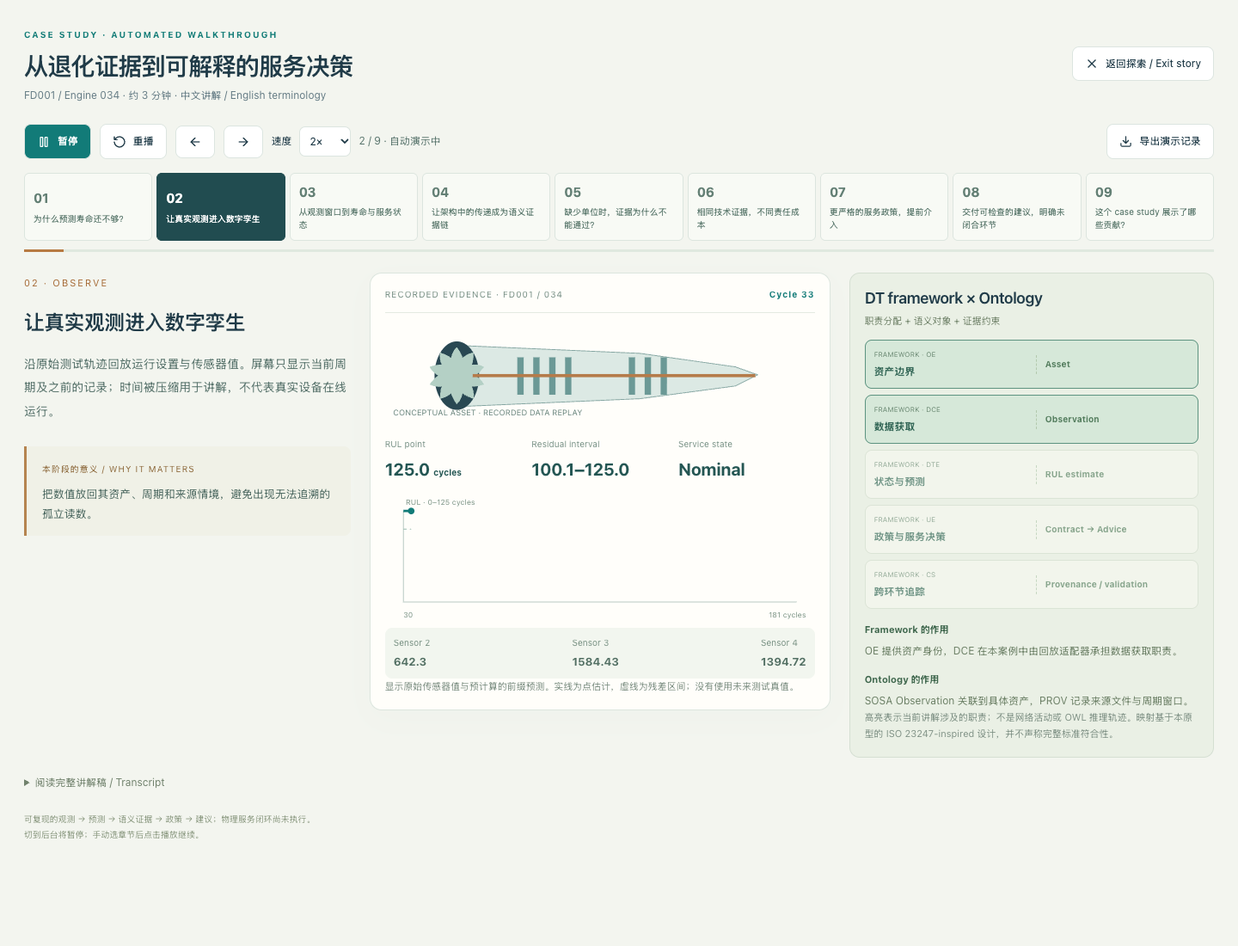
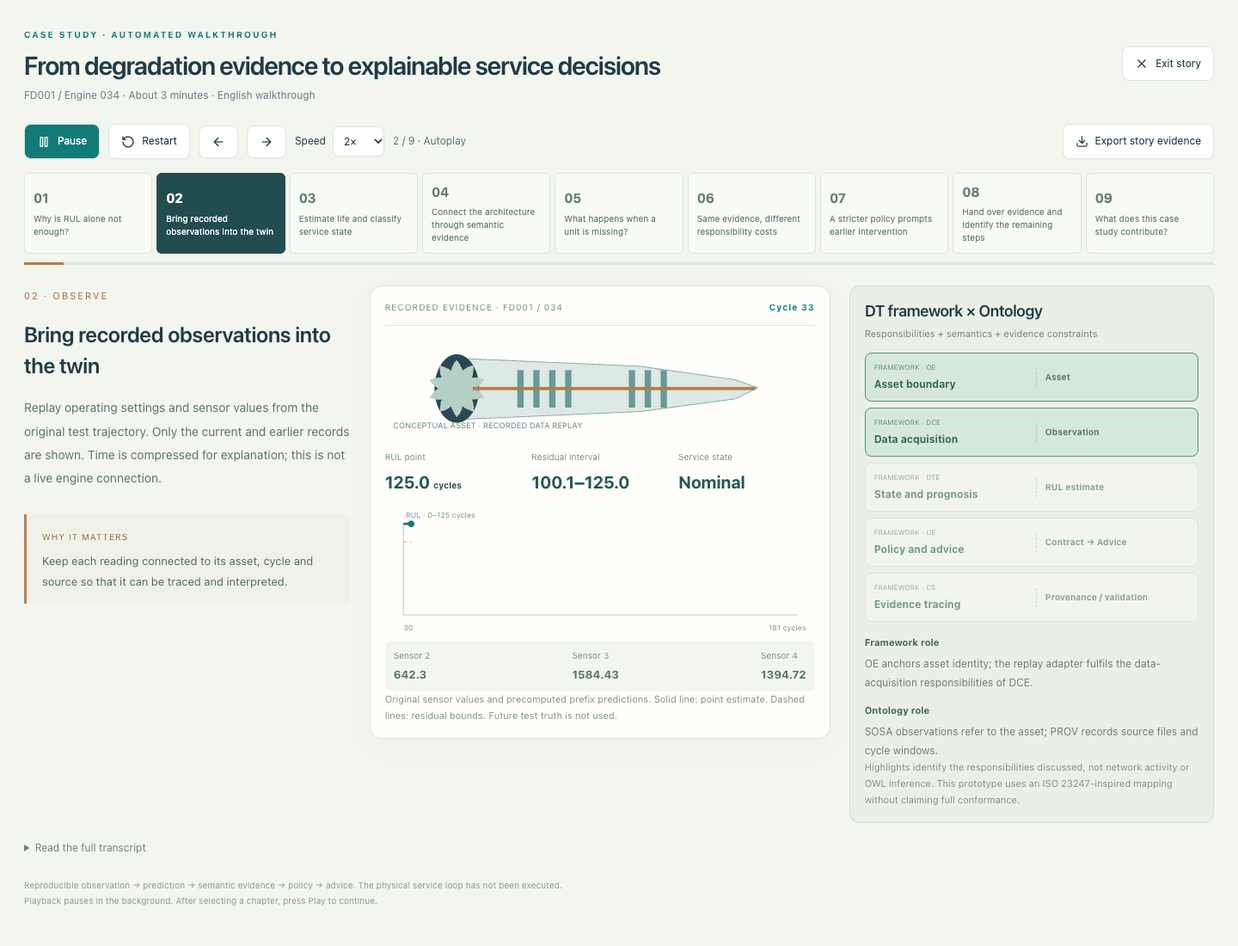
feat(cmapss): deliver fully English case study walkthrough

diff --git a/src/cmapss/CaseStudyStory.tsx b/src/cmapss/CaseStudyStory.tsx
@@ -12,7 +12,7 @@ const base=(import.meta as unknown as {env:{BASE_URL:string}}).env.BASE_URL;
 const points=data.engines.find(e=>e.id===34)!.points;
 const provenance={model:data.model,baselineSHA256:data.baselineSHA256,exporterSHA256:data.exporterSHA256,files:data.files,sensorNumbers:data.sensorNumbers,ontologySHA256:schema.sha256};
 type Check=Awaited<ReturnType<typeof executeSemantic>>&{stage:string;cycle:number;shapesSHA256:string;datasetSHA256:string};
-const modules=[['OE','Asset','资产边界'],['DCE','Observation','数据获取'],['DTE','RUL estimate','状态与预测'],['UE','Contract → Advice','政策与服务决策'],['CS','Provenance / validation','跨环节追踪']];
+const modules=[['OE','Asset','Asset boundary'],['DCE','Observation','Data acquisition'],['DTE','RUL estimate','State and prognosis'],['UE','Contract → Advice','Policy and advice'],['CS','Provenance / validation','Evidence tracing']];
 const f=(n:number)=>n.toFixed(1);
 export default function CaseStudyStory({onClose}:{onClose:()=>void}) {
  const [player,dispatch]=useReducer(storyReducer,initialPlayer);
@@ -49,12 +49,12 @@ export default function CaseStudyStory({onClose}:{onClose:()=>void}) {
   const controller=new AbortController();
   (async()=>{
    try {
-    const load=async(path:string)=>{const r=await fetch(`${base}cmapss/${path}`,{signal:controller.signal});if(!r.ok)throw new Error(`无法加载 ${path} (${r.status})`);return r.text();};
+    const load=async(path:string)=>{const r=await fetch(`${base}cmapss/${path}`,{signal:controller.signal});if(!r.ok)throw new Error(`Unable to load ${path} (${r.status})`);return r.text();};
     const [{executeSemantic},shapes,query]=await Promise.all([import('./semantic'),load('cmapss-shapes.ttl'),load(`queries/${requirement.query}.rq`)]);
     const point=points.find(p=>p.cycle===requirement.cycle)!;
     const input={dataset:'FD001' as const,engine:34,point,scenario:requirement.contract?contracts[1].policy:defaults,contract:requirement.contract?contracts[1]:undefined,provenance};
     const value=await executeSemantic(input,shapes,query,requirement.defect);
-    if(value.conforms!==requirement.expected||(requirement.expected&&value.rows.length===0)||(!requirement.expected&&!value.violations.length))throw new Error('实际验证结果与案例预期不一致，请检查证据。');
+    if(value.conforms!==requirement.expected||(requirement.expected&&value.rows.length===0)||(!requirement.expected&&!value.violations.length))throw new Error('The actual validation result differs from the expected case outcome. Inspect the evidence.');
     const hash=async(text:string)=>Array.from(new Uint8Array(await crypto.subtle.digest('SHA-256',new TextEncoder().encode(text)))).map(v=>v.toString(16).padStart(2,'0')).join('');
     const [shapesSHA256,datasetSHA256]=await Promise.all([hash(shapes),hash(value.datasetTTL)]);
     if(!cancelled)setRecords(old=>({...old,[step.id]:{...value,stage:step.id,cycle:requirement.cycle,shapesSHA256,datasetSHA256}}));
@@ -72,47 +72,47 @@ export default function CaseStudyStory({onClose}:{onClose:()=>void}) {
  const history=points.filter(v=>v.cycle<=p.cycle);
  const x=(cycle:number)=>22+(cycle-30)/151*476;
  const y=(rul:number)=>132-rul/125*110;
- return <div className={`cm-app cm-story ${player.playing?'is-playing':''}`}>
+ return <div lang="en" className={`cm-app cm-story ${player.playing?'is-playing':''}`}>
   <main>
-   <header className="cs-top"><div><span className="cm-eyebrow">CASE STUDY · AUTOMATED WALKTHROUGH</span><h1 ref={heading} tabIndex={-1}>从退化证据到可解释的服务决策</h1><p>FD001 / Engine 034 · 约 3 分钟 · 中文讲解 / English terminology</p></div><button className="cm-button" onClick={onClose}><X size={16}/>返回探索 / Exit story</button></header>
+   <header className="cs-top"><div><span className="cm-eyebrow">CASE STUDY · AUTOMATED WALKTHROUGH</span><h1 ref={heading} tabIndex={-1}>From degradation evidence to explainable service decisions</h1><p>FD001 / Engine 034 · About 3 minutes · English walkthrough</p></div><button className="cm-button" onClick={onClose}><X size={16}/>Exit story</button></header>
    <section className="cs-controls" aria-label="Story playback controls">
-    <button className="cm-button cs-play" onClick={toggle} aria-label={player.playing?'Pause story':'Play story'}>{player.playing?<Pause size={16}/>:<Play size={16}/>} {player.finished?'重新播放':player.playing?'暂停':'播放'}</button>
-    <button className="cm-button" onClick={restart} aria-label="Restart story"><RotateCcw size={16}/>重播</button>
+    <button className="cm-button cs-play" onClick={toggle} aria-label={player.playing?'Pause story':'Play story'}>{player.playing?<Pause size={16}/>:<Play size={16}/>} {player.finished?'Play again':player.playing?'Pause':'Play'}</button>
+    <button className="cm-button" onClick={restart} aria-label="Restart story"><RotateCcw size={16}/>Restart</button>
     <button className="cm-button" onClick={()=>go(player.index-1)} disabled={player.index===0} aria-label="Previous scene"><ArrowLeft size={16}/></button>
     <button className="cm-button" onClick={()=>go(player.index+1)} disabled={player.index===storySteps.length-1} aria-label="Next scene"><ArrowRight size={16}/></button>
-    <label>速度<select aria-label="Story speed" value={speed} onChange={e=>setSpeed(Number(e.target.value))}><option value={.5}>0.5×</option><option value={1}>1×</option><option value={2}>2×</option></select></label>
-    <span className="cs-position" data-testid="story-position">{player.index+1} / {storySteps.length} · {player.finished?'演示结束':!ready?'等待真实语义执行':player.playing?'自动演示中':'已暂停'}</span>
-    <button className="cm-button" onClick={exportRun}><Download size={15}/>导出演示记录</button>
+    <label>Speed<select aria-label="Story speed" value={speed} onChange={e=>setSpeed(Number(e.target.value))}><option value={.5}>0.5×</option><option value={1}>1×</option><option value={2}>2×</option></select></label>
+    <span className="cs-position" data-testid="story-position">{player.index+1} / {storySteps.length} · {player.finished?'Story complete':!ready?'Waiting for semantic execution':player.playing?'Autoplay':'Paused'}</span>
+    <button className="cm-button" onClick={exportRun}><Download size={15}/>Export story evidence</button>
    </section>
    <nav className="cs-chapters" aria-label="Story chapters">{storySteps.map((s,i)=><button key={s.id} onClick={()=>go(i)} aria-current={i===player.index?'step':undefined} aria-label={`Scene ${i+1}: ${s.title}`}><b>{String(i+1).padStart(2,'0')}</b><span>{s.title}</span></button>)}</nav>
    <div className="cs-progress" role="progressbar" aria-label="Current scene progress" aria-valuemin={0} aria-valuemax={100} aria-valuenow={Math.floor(player.elapsed/step.duration*100)}><i style={{width:`${player.elapsed/step.duration*100}%`}}/></div>
    <section className="cs-stage" aria-label="Current story scene" data-stage={step.id}>
-    <div className="cs-narration" key={step.id}><small>{step.tag}</small><h2 data-testid="story-title">{step.title}</h2><p>{step.text}</p><div className="cs-meaning"><small>本阶段的意义 / WHY IT MATTERS</small><p>{step.meaning}</p></div></div>
+    <div className="cs-narration" key={step.id}><small>{step.tag}</small><h2 data-testid="story-title">{step.title}</h2><p>{step.text}</p><div className="cs-meaning"><small>WHY IT MATTERS</small><p>{step.meaning}</p></div></div>
     <div className="cs-evidence">
      <div className="cs-evidence-head"><span>RECORDED EVIDENCE · FD001 / 034</span><b>Cycle <span data-testid="story-cycle">{p.cycle}</span></b></div>
      {['purpose','observe','predict'].includes(step.id)&&<>
-      <svg className="cs-engine" viewBox="0 0 540 110" role="img" aria-label="概念发动机与数据流，不表示实际损伤或物理传感器位置"><path d="M90 20L320 30L440 47L468 57L440 71L320 87L90 97Z" fill="#dce9e4" stroke="#85a6a2"/><ellipse cx="90" cy="58" rx="28" ry="43" fill="#294853"/><g className="cs-fan">{Array.from({length:10},(_,i)=><path key={i} d="M90 58Q75 38 90 22Q107 45 90 58" fill="#b4d0c5" transform={`rotate(${i*36} 90 58)`}/>)}</g>{[170,190,210,230,310,330,350].map(x=><path key={x} d={`M${x} 35v47`} stroke="#6b9996" strokeWidth="8"/>)}<path d="M110 58H465" stroke="#b57b4a" strokeWidth="4"/><text x="10" y="108" fontSize="10" fill="#69857e">CONCEPTUAL ASSET · RECORDED DATA REPLAY</text></svg>
+      <svg className="cs-engine" viewBox="0 0 540 110" role="img" aria-label="Conceptual engine and data flow; no measured damage or physical sensor locations are depicted"><path d="M90 20L320 30L440 47L468 57L440 71L320 87L90 97Z" fill="#dce9e4" stroke="#85a6a2"/><ellipse cx="90" cy="58" rx="28" ry="43" fill="#294853"/><g className="cs-fan">{Array.from({length:10},(_,i)=><path key={i} d="M90 58Q75 38 90 22Q107 45 90 58" fill="#b4d0c5" transform={`rotate(${i*36} 90 58)`}/>)}</g>{[170,190,210,230,310,330,350].map(x=><path key={x} d={`M${x} 35v47`} stroke="#6b9996" strokeWidth="8"/>)}<path d="M110 58H465" stroke="#b57b4a" strokeWidth="4"/><text x="10" y="108" fontSize="10" fill="#69857e">CONCEPTUAL ASSET · RECORDED DATA REPLAY</text></svg>
       <div className="cs-metrics"><div><small>RUL point</small><b>{f(p.point)} <em>cycles</em></b></div><div><small>Residual interval</small><b>{f(p.low)}–{f(p.high)}</b></div><div><small>Service state</small><b>{state(p.low)}</b></div></div>
-      <svg className="cs-trace" viewBox="0 0 520 158" role="img" aria-label={`已观测前缀的 RUL 预测，当前周期 ${p.cycle}`}><path d="M22 22V132H498" fill="none" stroke="#b8cac3"/><polyline points={history.map(v=>`${x(v.cycle)},${y(v.low)}`).join(' ')} fill="none" stroke="#9abbaf" strokeDasharray="4 4"/><polyline points={history.map(v=>`${x(v.cycle)},${y(v.high)}`).join(' ')} fill="none" stroke="#9abbaf" strokeDasharray="4 4"/><polyline points={history.map(v=>`${x(v.cycle)},${y(v.point)}`).join(' ')} fill="none" stroke="#127b78" strokeWidth="3"/><circle cx={x(p.cycle)} cy={y(p.point)} r="4" fill="#127b78"/><text x="22" y="151">30</text><text x="464" y="151">181 cycles</text><text x="25" y="15">RUL · 0–125 cycles</text></svg>
-      <div className="cs-sensors">{data.sensorNumbers.slice(0,3).map((n,i)=><span key={n}>Sensor {n}<b>{p.sensors[i]}</b></span>)}</div><p className="cs-caption">显示原始传感器值与预计算的前缀预测。实线为点估计，虚线为残差区间；没有使用未来测试真值。</p>
+      <svg className="cs-trace" viewBox="0 0 520 158" role="img" aria-label={`RUL predictions from the observed prefix; current cycle ${p.cycle}`}><path d="M22 22V132H498" fill="none" stroke="#b8cac3"/><polyline points={history.map(v=>`${x(v.cycle)},${y(v.low)}`).join(' ')} fill="none" stroke="#9abbaf" strokeDasharray="4 4"/><polyline points={history.map(v=>`${x(v.cycle)},${y(v.high)}`).join(' ')} fill="none" stroke="#9abbaf" strokeDasharray="4 4"/><polyline points={history.map(v=>`${x(v.cycle)},${y(v.point)}`).join(' ')} fill="none" stroke="#127b78" strokeWidth="3"/><circle cx={x(p.cycle)} cy={y(p.point)} r="4" fill="#127b78"/><text x="22" y="151">30</text><text x="464" y="151">181 cycles</text><text x="25" y="15">RUL · 0–125 cycles</text></svg>
+      <div className="cs-sensors">{data.sensorNumbers.slice(0,3).map((n,i)=><span key={n}>Sensor {n}<b>{p.sensors[i]}</b></span>)}</div><p className="cs-caption">Original sensor values and precomputed prefix predictions. Solid line: point estimate. Dashed lines: residual bounds. Future test truth is not used.</p>
      </>}
      {['semantics','quality','handoff'].includes(step.id)&&<>
       <div className="cs-chain"><div><small>sdt:Asset</small><b>Engine 034</b></div><span>← sosa:hasFeatureOfInterest</span><div><small>sosa:Observation</small><b>Cycle {p.cycle} / sensor values</b></div><span>← cm:observation</span><div><small>cm:ObservationWindow</small><b>Cycles {Math.max(1,p.cycle-29)}–{p.cycle}</b></div><span>← prov:wasDerivedFrom</span><div><small>cm:CycleRULEstimate</small><b>{f(p.point)} cycles</b></div><span>← cm:basedOnEstimate</span><div><small>Recommendation · proposed</small><b>{decision.chosen.name}</b></div></div><p className="cs-caption cs-links">Estimate → cm:generatedWith → {data.model}<br/>Window → prov:wasDerivedFrom → test_FD001.txt<br/>Recommendation → prov:wasDerivedFrom → Contract / Policy</p>
-      {step.id==='quality'&&<p className="cs-warning">TEST COPY：移除 cm:unit → cm:Cycle；原始数据不变。</p>}
-      {step.id==='handoff'&&<div className="cs-boundary"><b>下一步尚未执行</b><p>人工授权 → 维护执行 → 新观测 → 结果评估</p><span>原数据没有维护后的轨迹，不能把这条链动画成已完成的物理闭环。</span></div>}
+      {step.id==='quality'&&<p className="cs-warning">TEST COPY: remove cm:unit → cm:Cycle. Original data is unchanged.</p>}
+      {step.id==='handoff'&&<div className="cs-boundary"><b>Steps not yet executed</b><p>Human authorization → Maintenance → New observations → Outcome evaluation</p><span>The source data has no post-maintenance trajectories. This physical feedback loop has not been completed.</span></div>}
      </>}
-     {['cost','margin'].includes(step.id)&&<><div className="cs-fixed">同一 RUL：{f(p.point)} · 下界 {f(p.low)} cycles</div><div className="cs-contracts">{pair.map(({terms,decision,budget})=><article key={terms.id}><small>{terms.name}</small><dl><dt>后果成本</dt><dd>{terms.policy.consequence}×</dd><dt>介入门槛</dt><dd>{terms.policy.gate} cycles</dd></dl><b data-testid={`story-${terms.id}`}>{decision.chosen.name}</b><p>成本 {decision.chosen.total.toFixed(3)} · {decision.gated?'门槛触发':'成本排序'}</p>{step.id==='margin'&&<p>假设目标 {terms.target*100}%<br/>计划损失预算余量：{budget.plannedMarginSlots.toFixed(0)} slots</p>}</article>)}</div><p className="cs-caption">合同参数为研究假设。目标值与介入门槛独立设定；KPI 预算不参与优化。可用性保障的 −3 slots 表示假设停机超出预算，维护建议不证明满足 99% 目标。</p></>}
+     {['cost','margin'].includes(step.id)&&<><div className="cs-fixed">Same RUL: {f(p.point)} · lower bound {f(p.low)} cycles</div><div className="cs-contracts">{pair.map(({terms,decision,budget})=><article key={terms.id}><small>{terms.name}</small><dl><dt>Consequence cost</dt><dd>{terms.policy.consequence}×</dd><dt>Intervention margin</dt><dd>{terms.policy.gate} cycles</dd></dl><b data-testid={`story-${terms.id}`}>{decision.chosen.name}</b><p>Normalized cost {decision.chosen.total.toFixed(3)} · {decision.gated?'margin active':'cost ranking'}</p>{step.id==='margin'&&<p>Assumed target {terms.target*100}%<br/>Planned-loss budget margin: {budget.plannedMarginSlots.toFixed(0)} slots</p>}</article>)}</div><p className="cs-caption">Contract terms are research assumptions. Targets and intervention margins are independent; the KPI budget does not enter the optimizer. A margin of −3 slots under availability assurance means the assumed loss exceeds the budget. Maintenance advice does not establish compliance with the 99% target.</p></>}
      {step.id==='contributions'&&<><div className="cs-contributions">{[
-      ['C1 · 服务化架构映射','将观测、预测、政策与建议分配到可解释的职责环节。','证据：运行中的 DT framework 映射。'],
-      ['C2 · 可执行的语义证据','周期 RUL 扩展、来源链、SPARQL 与 SHACL 共同支持可查询和可检查的证据。','证据：有效快照通过，缺少单位副本失败。'],
-      ['C3 · 合同情境决策','同一技术证据可在不同成本与门槛下产生不同建议。','证据：cycle 158 / 171 的受控比较。']
-     ].map(([title,text,evidence])=><article key={title}><b>{title}</b><p>{text}</p><small>{evidence}</small></article>)}</div><div className="cs-scope"><b>验证范围与局限</b><p>四个子集独立训练，32 台发动机、4,835 个回放快照；不是跨域迁移验证。</p><div>{metadata.map(d=><span key={d.dataset}>{d.dataset}<b>{(d.coverage*100).toFixed(1)}%</b>区间覆盖率</span>)}</div><p>覆盖率以全测试集端点计算，标称目标 80% 并未普遍达到。未证明服务收益、实际可用率、完整 ISO 符合性或理论新颖性。</p></div></>}
-     {requirement&&<div className="cs-check" aria-live="polite">{error?<><strong role="alert">语义执行未完成：{error}</strong><button className="cm-button" onClick={()=>setAttempt(v=>v+1)}>重试验证</button></>:!result?<strong>正在真实执行 RDF / SHACL / SPARQL…</strong>:<><strong data-testid="story-check">{result.conforms?'SHACL CONFORMS':'SHACL NON-CONFORMING · 预期失败'}</strong><span>{result.triples} triples · {result.rows.length} query rows · {result.violations.length} validation results</span><details><summary>查看实际查询结果与约束报告</summary><pre>{JSON.stringify({rows:result.rows,violations:result.violations},null,2)}</pre></details></>}</div>}
+      ['C1 · Servitization architecture mapping','Assign observation, prediction, policy and advice to explicit responsibilities.','Evidence: the implemented DT framework mapping.'],
+      ['C2 · Executable semantic evidence','Cycle-valued RUL, provenance, SPARQL and SHACL make evidence queryable and inspectable.','Evidence: the valid snapshot passes; the missing-unit copy fails.'],
+      ['C3 · Contract-context decisions','Different costs and margins can yield different advice from the same technical evidence.','Evidence: controlled comparisons at cycles 158 and 171.']
+     ].map(([title,text,evidence])=><article key={title}><b>{title}</b><p>{text}</p><small>{evidence}</small></article>)}</div><div className="cs-scope"><b>Scope and limitations</b><p>Separate models for four subsets; 32 replay engines and 4,835 snapshots. This is not a transfer-learning evaluation.</p><div>{metadata.map(d=><span key={d.dataset}>{d.dataset}<b>{(d.coverage*100).toFixed(1)}%</b>interval coverage</span>)}</div><p>Coverage uses all test endpoints; the nominal 80% level is not consistently achieved. Service benefits, actual availability, full ISO conformance and theoretical novelty are not established.</p></div></>}
+     {requirement&&<div className="cs-check" aria-live="polite">{error?<><strong role="alert">Semantic execution incomplete: {error}</strong><button className="cm-button" onClick={()=>setAttempt(v=>v+1)}>Retry validation</button></>:!result?<strong>Executing RDF / SHACL / SPARQL…</strong>:<><strong data-testid="story-check">{result.conforms?'SHACL CONFORMS':'SHACL NON-CONFORMING · expected failure'}</strong><span>{result.triples} triples · {result.rows.length} query rows · {result.violations.length} validation results</span><details><summary>Inspect query results and constraint report</summary><pre>{JSON.stringify({rows:result.rows,violations:result.violations},null,2)}</pre></details></>}</div>}
     </div>
-   <section className="cs-synergy" aria-label="Framework and ontology collaboration"><div className="cs-synergy-head"><h2>DT framework × Ontology</h2><span>职责分配 + 语义对象 + 证据约束</span></div><div className="cs-lanes">{modules.map(([id,object,label],i)=><div key={id} className={(step.modules as readonly number[]).includes(i)?'active':''}><small>FRAMEWORK · {id}</small><b>{label}</b><span className="cs-bridge">↕ 对象 / 关系 / 来源</span><strong>{object}</strong></div>)}</div><div className="cs-explanation"><p><b>Framework 的作用</b>{step.framework}</p><p><b>Ontology 的作用</b>{step.ontology}</p></div><p className="cs-caption">高亮表示当前讲解涉及的职责；不是网络活动或 OWL 推理轨迹。映射基于本原型的 ISO 23247-inspired 设计，并不声称完整标准符合性。</p></section>
+   <section className="cs-synergy" aria-label="Framework and ontology collaboration"><div className="cs-synergy-head"><h2>DT framework × Ontology</h2><span>Responsibilities + semantics + evidence constraints</span></div><div className="cs-lanes">{modules.map(([id,object,label],i)=><div key={id} className={(step.modules as readonly number[]).includes(i)?'active':''}><small>FRAMEWORK · {id}</small><b>{label}</b><span className="cs-bridge">↕ objects / relations / provenance</span><strong>{object}</strong></div>)}</div><div className="cs-explanation"><p><b>Framework role</b>{step.framework}</p><p><b>Ontology role</b>{step.ontology}</p></div><p className="cs-caption">Highlights identify the responsibilities discussed, not network activity or OWL inference. This prototype uses an ISO 23247-inspired mapping without claiming full conformance.</p></section>
    </section>
-   <details className="cs-transcript"><summary>阅读完整讲解稿 / Transcript</summary>{storySteps.map(s=><article key={s.id}><h3>{s.tag} · {s.title}</h3><p>{s.text}</p><p>{s.meaning}</p></article>)}</details>
-   <footer className="cs-footer">可复现的观测 → 预测 → 语义证据 → 政策 → 建议；物理服务闭环尚未执行。<span>切到后台将暂停；手动选章节后点击播放继续。</span></footer>
+   <details className="cs-transcript"><summary>Read the full transcript</summary>{storySteps.map(s=><article key={s.id}><h3>{s.tag} · {s.title}</h3><p>{s.text}</p><p>{s.meaning}</p></article>)}</details>
+   <footer className="cs-footer">Reproducible observation → prediction → semantic evidence → policy → advice. The physical service loop has not been executed.<span>Playback pauses in the background. After selecting a chapter, press Play to continue.</span></footer>
   </main>
  </div>;
 }

diff --git a/src/cmapss/story.ts b/src/cmapss/story.ts
@@ -1,32 +1,151 @@
 import type { Point } from './model.ts';
 export const storySteps = [
- {id:'purpose',title:'为什么预测寿命还不够？',tag:'01 · RESEARCH QUESTION',start:30,end:30,duration:16000,modules:[0,3],
-  text:'同一台发动机、同一份退化证据，面对不同服务责任，可能需要不同的行动。这个案例展示如何把资产预测转化为有依据、可追溯的服务建议。',
-  framework:'界定资产、服务参与者与责任边界。',ontology:'把 Asset 与 Contract 关联，使服务情境进入证据结构。',meaning:'研究问题：如何将技术状态与服务责任放在同一条可检查的决策链上？'},
- {id:'observe',title:'让真实观测进入数字孪生',tag:'02 · OBSERVE',start:30,end:94,duration:18000,modules:[0,1],
-  text:'沿原始测试轨迹回放运行设置与传感器值。屏幕只显示当前周期及之前的记录；时间被压缩用于讲解，不代表真实设备在线运行。',
-  framework:'OE 提供资产身份，DCE 在本案例中由回放适配器承担数据获取职责。',ontology:'SOSA Observation 关联到具体资产，PROV 记录来源文件与周期窗口。',meaning:'把数值放回其资产、周期和来源情境，避免出现无法追溯的孤立读数。'},
- {id:'predict',title:'从观测窗口到寿命与服务状态',tag:'03 · ESTIMATE',start:94,end:158,duration:18000,modules:[2],
-  text:'DTE 使用最多 30 个已有周期的窗口特征生成 RUL 估计及残差区间。区间下界映射到服务状态；状态标签和行动选择是两套不同的规则。',
-  framework:'DTE 承担状态估计与预测，并把输出交给服务决策功能。',ontology:'cm:CycleRULEstimate 记录周期单位、上下界、生成模型及来源窗口。',meaning:'明确预测的不确定性和单位，使后续决策能够检查它使用的到底是什么证据。'},
- {id:'semantics',title:'让架构中的传递成为语义证据链',tag:'04 · CONNECT & QUERY',start:158,end:158,duration:21000,modules:[1,2,4],
-  text:'此刻在浏览器中生成 RDF，执行 SHACL Core 与 SPARQL。查询回答“这项建议来自哪一台发动机、哪个周期、什么预测与政策”，而不是只绘制一张关系图。',
-  framework:'Cross-System 职责支撑跨环节的证据追踪。',ontology:'通过类型、属性与来源关系，将 Observation → Estimate → Recommendation 连成可查询结构。',meaning:'架构说明计算发生在哪里；ontology 说明被传递对象的含义，以及证据如何相互关联。'},
- {id:'quality',title:'缺少单位时，证据为什么不能通过？',tag:'05 · CHECK A BROKEN COPY',start:158,end:158,duration:18000,modules:[4],
-  text:'只在测试副本中移除 RUL 的周期单位，再执行同一套 SHACL。原始观测和预测保持不变。失败意味着证据结构不完整，不意味着发动机突然发生故障。',
-  framework:'在证据交付环节显示验证结果，让使用者识别不完整的证据。',ontology:'约束要求显式周期单位；本演示不会将 cycles 偷换成源 ontology 中的 hours。',meaning:'展示语义约束如何揭示交接问题。SHACL 通过也不等于模型准确、行动安全或合同履约。'},
- {id:'cost',title:'相同技术证据，不同责任成本',tag:'06 · COMPARE CONTRACTS',start:158,end:158,duration:20000,modules:[3],
-  text:'固定在 cycle 158，只比较两份声明为假设的合同。维护支持与可用性保障承担不同中断后果成本，因此得到不同建议；这里两个介入门槛都尚未触发。',
-  framework:'UE 中的决策功能在既定证据下比较服务政策。',ontology:'Contract 与政策参数进入 Recommendation 的来源链，解释建议为什么随服务情境改变。',meaning:'技术预测保持不变，服务责任改变行动排序：这是案例中服务化作用的一个可复现例子。'},
- {id:'margin',title:'更严格的服务政策，提前介入',tag:'07 · APPLY POLICY',start:171,end:171,duration:21000,modules:[2,3,4],
-  text:'来到 cycle 171。RUL 下界位于 15 与 25 cycles 之间。可用性保障合同的更高门槛排除继续运行、监测和检查，并建议计划维护。这里同时真实查询已应用合同。',
-  framework:'预测输出进入政策约束，产生供人审阅的建议。',ontology:'合同声明和实际政策参数需要一致；RDF 将建议同时绑定到预测和合同。',meaning:'把提前介入的依据公开，而不是只显示一个“维护”按钮。99% 的假设目标并不证明可履约。'},
- {id:'handoff',title:'交付可检查的建议，明确未闭合环节',tag:'08 · EVIDENCE HANDOFF',start:181,end:181,duration:19000,modules:[3,4],
-  text:'到 cycle 181，按基准政策也会触发维护建议。本演示可交付模型、源文件哈希、政策、候选行动及 RDF 验证结果；接下来仍需要人的授权、维护执行与结果观测。',
-  framework:'将当前实现的证据链与尚未实现的物理服务闭环分开。',ontology:'Recommendation 状态为 proposed；没有伪造授权、执行或维护后观测。',meaning:'实际意义是支持可审阅的维护规划和责任解释。本数据集不能证明停机减少、成本节省或实际可用率提升。'},
- {id:'contributions',title:'这个 case study 展示了哪些贡献？',tag:'09 · CONTRIBUTIONS & LIMITS',start:181,end:181,duration:23000,modules:[0,1,2,3,4],
-  text:'案例支持三个实现层面的贡献：服务化职责的可执行映射、带单位与来源的语义证据结构、固定技术证据下的合同情境决策。它们共同形成从观测到建议的可复现链条。',
-  framework:'提供职责分解和功能衔接。',ontology:'提供对象语义、来源关系和可执行的结构约束。',meaning:'两者协同：职责有承载环节，跨环节数据有明确含义，建议有可查询的依据。理论新颖性仍需论文与既有研究比较支持。'}
+{
+  "id": "purpose",
+  "title": "Why is RUL alone not enough?",
+  "tag": "01 · RESEARCH QUESTION",
+  "start": 30,
+  "end": 30,
+  "duration": 16000,
+  "modules": [
+    0,
+    3
+  ],
+  "text": "The same engine and degradation evidence can call for different actions under different service responsibilities. This case connects asset prognosis to service advice with explicit, traceable evidence.",
+  "framework": "Define the asset, service participants and responsibility boundaries.",
+  "ontology": "Link Asset and Contract so that service context becomes part of the evidence structure.",
+  "meaning": "Research question: how can technical condition and service responsibility enter one inspectable decision chain?"
+},
+{
+  "id": "observe",
+  "title": "Bring recorded observations into the twin",
+  "tag": "02 · OBSERVE",
+  "start": 30,
+  "end": 94,
+  "duration": 18000,
+  "modules": [
+    0,
+    1
+  ],
+  "text": "Replay operating settings and sensor values from the original test trajectory. Only the current and earlier records are shown. Time is compressed for explanation; this is not a live engine connection.",
+  "framework": "OE anchors asset identity; the replay adapter fulfils the data-acquisition responsibilities of DCE.",
+  "ontology": "SOSA observations refer to the asset; PROV records source files and cycle windows.",
+  "meaning": "Keep each reading connected to its asset, cycle and source so that it can be traced and interpreted."
+},
+{
+  "id": "predict",
+  "title": "Estimate life and classify service state",
+  "tag": "03 · ESTIMATE",
+  "start": 94,
+  "end": 158,
+  "duration": 18000,
+  "modules": [
+    2
+  ],
+  "text": "The DTE uses up to 30 available cycles to produce a RUL estimate and residual interval. Its lower bound maps to a service state. State classification and action selection use different rules.",
+  "framework": "DTE provides state estimation and prognosis for the service-decision function.",
+  "ontology": "cm:CycleRULEstimate records cycle units, bounds, the generating model and the source window.",
+  "meaning": "Make uncertainty and units explicit so that downstream decisions can inspect the evidence they use."
+},
+{
+  "id": "semantics",
+  "title": "Connect the architecture through semantic evidence",
+  "tag": "04 · CONNECT & QUERY",
+  "start": 158,
+  "end": 158,
+  "duration": 21000,
+  "modules": [
+    1,
+    2,
+    4
+  ],
+  "text": "RDF is generated and SHACL Core and SPARQL execute in this browser. The query identifies the engine, cycle, estimate and action behind the recommendation. This is an executable evidence chain.",
+  "framework": "Cross-System responsibilities support evidence tracing across processing stages.",
+  "ontology": "Types, properties and provenance connect Observation, Estimate and Recommendation into a queryable structure.",
+  "meaning": "The framework locates responsibilities; the ontology defines the objects exchanged and the relationships between their evidence."
+},
+{
+  "id": "quality",
+  "title": "What happens when a unit is missing?",
+  "tag": "05 · CHECK A BROKEN COPY",
+  "start": 158,
+  "end": 158,
+  "duration": 18000,
+  "modules": [
+    4
+  ],
+  "text": "Remove the RUL cycle unit from a test copy and run the same SHACL checks. Original observations and predictions remain unchanged. Failure identifies incomplete evidence, not a new engine fault.",
+  "framework": "Surface validation results at evidence handoff so users can identify incomplete records.",
+  "ontology": "Constraints require explicit cycle units. Cycles are never silently substituted for the source ontology's hours.",
+  "meaning": "Semantic constraints expose handoff problems. A SHACL pass does not establish prediction accuracy, action safety or contract compliance."
+},
+{
+  "id": "cost",
+  "title": "Same evidence, different responsibility costs",
+  "tag": "06 · COMPARE CONTRACTS",
+  "start": 158,
+  "end": 158,
+  "duration": 20000,
+  "modules": [
+    3
+  ],
+  "text": "Fix the evidence at cycle 158 and compare two hypothetical contracts. Maintenance support and availability assurance assume different interruption consequences and produce different advice. Neither intervention margin is active here.",
+  "framework": "The UE decision function compares service policies against fixed technical evidence.",
+  "ontology": "Contract and policy parameters enter the recommendation provenance, explaining why advice changes with service context.",
+  "meaning": "The prediction stays fixed while service responsibility changes the action ranking: a reproducible example of servitization in this case."
+},
+{
+  "id": "margin",
+  "title": "A stricter policy prompts earlier intervention",
+  "tag": "07 · APPLY POLICY",
+  "start": 171,
+  "end": 171,
+  "duration": 21000,
+  "modules": [
+    2,
+    3,
+    4
+  ],
+  "text": "At cycle 171, the lower RUL bound lies between 15 and 25 cycles. The stricter availability-assurance margin excludes operation, monitoring and inspection, recommending planned maintenance. The applied contract is queried here.",
+  "framework": "Prediction outputs enter policy constraints to produce advice for human review.",
+  "ontology": "Declared contract terms must match the applied policy. RDF binds advice to both the estimate and the contract.",
+  "meaning": "Expose the basis for earlier intervention. The hypothetical 99% target does not establish that the contract can be fulfilled."
+},
+{
+  "id": "handoff",
+  "title": "Hand over evidence and identify the remaining steps",
+  "tag": "08 · EVIDENCE HANDOFF",
+  "start": 181,
+  "end": 181,
+  "duration": 19000,
+  "modules": [
+    3,
+    4
+  ],
+  "text": "At cycle 181, the baseline policy also recommends maintenance. The prototype can hand over model identity, source hashes, policy, candidate actions and RDF validation results. Human authorization, execution and outcome observation remain ahead.",
+  "framework": "Distinguish the implemented evidence chain from the physical service loop that has not been executed.",
+  "ontology": "Recommendation status remains proposed. No authorization, execution or post-maintenance observation is fabricated.",
+  "meaning": "The practical value is reviewable maintenance planning and responsibility explanation. This dataset cannot establish reduced downtime, savings or improved actual availability."
+},
+{
+  "id": "contributions",
+  "title": "What does this case study contribute?",
+  "tag": "09 · CONTRIBUTIONS & LIMITS",
+  "start": 181,
+  "end": 181,
+  "duration": 23000,
+  "modules": [
+    0,
+    1,
+    2,
+    3,
+    4
+  ],
+  "text": "The case demonstrates three implementation-level contributions: an executable mapping of service responsibilities, semantic evidence with units and provenance, and contract-context decisions under fixed technical evidence.",
+  "framework": "Provide a decomposition of responsibilities and connections between functions.",
+  "ontology": "Provide object semantics, provenance relationships and executable structural constraints.",
+  "meaning": "Together, responsibilities have an implementation location, exchanged data has explicit meaning, and advice has queryable support. Theoretical novelty still requires comparison with prior research."
+}
 ] as const;
 export type PlayerState = {index:number;elapsed:number;playing:boolean;finished:boolean};
 export type PlayerAction = {type:'tick';delta:number;ready:boolean}|{type:'goto';index:number}|{type:'toggle'}|{type:'restart'}|{type:'pause'};

diff --git a/src/cmapss/CmapssApp.tsx b/src/cmapss/CmapssApp.tsx
@@ -148,11 +148,11 @@ function CmapssView({data,dataset,onDataset}:{data:ReplayData;dataset:DatasetId;
   const nodeDetail=graphNodes.find(n=>n.id===selectedNode)!;
   const nodes=graphNodes.map(n=>({id:n.id,position:{x:n.x,y:n.y},data:{label:<><small>{n.type}</small><strong>{n.title}</strong><span>{n.source}</span></>},className:`cm-flow-node ${selectedNode===n.id?'selected':''}`,style:{width:220}}));
   const edges=relations.map(([source,target],i)=>({id:String(i),source,target,markerEnd:{type:MarkerType.ArrowClosed},style:{stroke:'#8fa6aa'},labelStyle:{fontSize:10,fill:'#435c66'},labelBgStyle:{fill:'#fbfcfa'}}));
-  if(storyOpen)return <Suspense fallback={<div className="cm-app"><main>正在加载自动演示…</main></div>}><CaseStudyStory onClose={()=>{setStoryOpen(false);const url=new URL(window.location.href);url.searchParams.delete('story');window.history.replaceState(null,'',url);requestAnimationFrame(()=>document.querySelector<HTMLButtonElement>('[aria-label="Play case study"]')?.focus());}}/></Suspense>;
+  if(storyOpen)return <Suspense fallback={<div className="cm-app"><main>Loading automatic walkthrough…</main></div>}><CaseStudyStory onClose={()=>{setStoryOpen(false);const url=new URL(window.location.href);url.searchParams.delete('story');window.history.replaceState(null,'',url);requestAnimationFrame(()=>document.querySelector<HTMLButtonElement>('[aria-label="Play case study"]')?.focus());}}/></Suspense>;
   return <div className="cm-app">
     <header className="cm-header"><a className="cm-brand" href={`${base}cmapss/`}><span className="cm-mark"><Layers size={23}/></span><span>Servitization Lab<small>C-MAPSS DIGITAL TWIN</small></span></a><div className="cm-header-links"><span className="cm-tag">RESEARCH PROTOTYPE · V0.5</span><a href="https://github.com/JerryMa619/wt-servitization-dashboard/issues/1" target="_blank" rel="noreferrer"><GitBranch size={15}/> Development record</a></div></header>
     <main>
-      <section className="cm-intro"><div><div className="cm-eyebrow">FROM ASSET EVIDENCE TO SERVICE ACTION</div><h1>One engine. One traceable decision.</h1><p>Explore how degradation evidence becomes a service recommendation through your DT framework and ontology.</p></div><button onClick={()=>{setPlaying(false);setStoryOpen(true);}} className="cm-button" aria-label="Play case study"><Play size={16}/>自动演示 / Play case study</button><button onClick={exportEvidence} className="cm-button"><Download size={16}/> Export evidence</button></section>
+      <section className="cm-intro"><div><div className="cm-eyebrow">FROM ASSET EVIDENCE TO SERVICE ACTION</div><h1>One engine. One traceable decision.</h1><p>Explore how degradation evidence becomes a service recommendation through your DT framework and ontology.</p></div><button onClick={()=>{setPlaying(false);setStoryOpen(true);}} className="cm-button" aria-label="Play case study"><Play size={16}/>Play case study</button><button onClick={exportEvidence} className="cm-button"><Download size={16}/> Export evidence</button></section>
       <section className="cm-replay" aria-label="Replay controls"><div className="cm-source"><span className="cm-dot"/> DATASET REPLAY <strong>{dataset}</strong></div><label>Dataset<select aria-label="Dataset" value={dataset} onChange={e=>onDataset(e.target.value as DatasetId)}>{datasetMetadata.map(d=><option key={d.dataset} value={d.dataset}>{d.dataset}</option>)}</select></label><label>Engine<select value={engineId} onChange={e=>changeEngine(Number(e.target.value))}>{data.engines.map(e=><option key={e.id} value={e.id}>Engine {String(e.id).padStart(3,'0')}</option>)}</select></label><button className="cm-play" aria-label={playing?'Pause replay':'Play replay'} disabled={!playing&&index===engine.points.length-1} onClick={()=>setPlaying(!playing)}>{playing?<Pause size={18}/>:<Play size={18}/>}</button><button className="cm-icon-button" aria-label="Restart replay" onClick={()=>{setPlaying(false);setIndex(0);}}><RotateCcw size={18}/></button><label className="cm-timeline"><span>Cycle <b data-testid="cycle">{p.cycle}</b><small> / {engine.points[engine.points.length-1].cycle}</small></span><input aria-label="Replay cycle" type="range" min={0} max={engine.points.length-1} value={index} onChange={e=>{setPlaying(false);setIndex(Number(e.target.value));}}/></label><span className="cm-speed">1 cycle / 0.65 s</span></section>
       {dataset==='FD001'&&<section className="cm-tour" aria-label="Engine 034 guided demonstration"><div className="cm-tour-heading"><div><small>FIVE-MINUTE WALKTHROUGH · ENGINE 034</small><h2>Follow the evidence through four stages</h2></div><span className="cm-caption">Selecting a stage restores baseline assumptions.</span></div><div className="cm-tour-stops">{stops.map((stop,i)=><button key={stop.state} aria-pressed={activeStop===i} onClick={()=>visitStop(i)}><small>0{i+1} · CYCLE {guidedEngine.points[stop.index].cycle}</small><strong>{stop.state}</strong><span>{stop.title}</span></button>)}</div><div className="cm-tour-note" aria-live="polite"><p>{activeStop>=0?stops[activeStop].note:'Explore freely, or select a stage to follow the first observed entry into each service state. These are model-driven milestones, not observed maintenance events.'}</p><button className="cm-text-button" onClick={()=>{setPlaying(false);setTab('Ontology explorer');setOntoMode('Semantic check');}}>Validate this snapshot <ArrowRight size={16}/></button></div></section>}
       <nav className="cm-tabs" aria-label="Demonstration views">{tabs.map((t,i)=><button key={t} aria-current={tab===t?'page':undefined} onClick={()=>setTab(t)}><span>0{i+1}</span>{t}</button>)}</nav>

diff --git a/src/cmapss/tour.ts b/src/cmapss/tour.ts
@@ -1,9 +1,9 @@
 import { state, type Point } from './model.ts';
 export function tourStops(points: Point[]) {
   return [
-    { state:'Nominal', title:'正常 · Establish the baseline', view:'Twin overview', note:'Observe the available sensor history and the RUL interval. High remaining life supports continued operation under the baseline service policy.' },
-    { state:'Watch', title:'关注 · Connect the framework', view:'DT framework', note:'The lower RUL bound first crosses 80 cycles. Trace observation collection into the DTE service-state logic. Watch is a state label; the lowest-cost action can still be Continue.' },
-    { state:'Alert', title:'预警 · Inspect semantic evidence', view:'Ontology explorer', note:'The lower bound first crosses 40 cycles. Inspect how the observation window, model and policy support the recommendation. State classification and action selection use different rules.' },
-    { state:'Hold', title:'建议维护 · Explain the decision', view:'Service decisions', note:'The lower bound first crosses 15 cycles. The baseline guardrail excludes continued operation, monitoring and inspection; planned maintenance is the lowest-cost eligible advisory. No action is executed.' }
+    { state:'Nominal', title:'Establish the baseline', view:'Twin overview', note:'Observe the available sensor history and the RUL interval. High remaining life supports continued operation under the baseline service policy.' },
+    { state:'Watch', title:'Connect the framework', view:'DT framework', note:'The lower RUL bound first crosses 80 cycles. Trace observation collection into the DTE service-state logic. Watch is a state label; the lowest-cost action can still be Continue.' },
+    { state:'Alert', title:'Inspect semantic evidence', view:'Ontology explorer', note:'The lower bound first crosses 40 cycles. Inspect how the observation window, model and policy support the recommendation. State classification and action selection use different rules.' },
+    { state:'Hold', title:'Explain the decision', view:'Service decisions', note:'The lower bound first crosses 15 cycles. The baseline guardrail excludes continued operation, monitoring and inspection; planned maintenance is the lowest-cost eligible advisory. No action is executed.' }
   ].map(stop=>({...stop,index:points.findIndex(p=>state(p.low)===stop.state)})).filter(stop=>stop.index>=0);
 }

diff --git a/docs/cmapss/IMPLEMENTATION_LOG.md b/docs/cmapss/IMPLEMENTATION_LOG.md
@@ -121,3 +121,11 @@ Deterministic data generation; prefix-only feature test; source hashes; action s
 - Visual QA corrected the play-button contrast and placed narration, evidence and collaboration alongside one another on wide screens. Final screenshots disable CSS transitions during capture; the full automatic sequence was rerun successfully after the changes.
 - Existing original and four-subset explorer browser suites were rerun successfully, including standard/enhanced wind-turbine route smoke checks. Dataset/semantic/contract suites and the new player tests passed. Build passed with existing bundle-size warnings.
 - Implementation commit: `184d45a`. PR #3 records this update; publication verification will be recorded there after deployment.
+
+## 2026-10-05 — English walkthrough and authorised publication
+
+- The user explicitly authorised merging PR #3 and publishing the existing webpage, and requested an entirely English version. This supersedes the earlier pending publication approval.
+- Translated all nine scenes, framework/ontology explanations, contribution statements, controls, status/error messages, accessibility labels, transcript and exported story script into English. Updated the explorer entry and four-stop guide labels.
+- Added browser assertions that visible story scenes and the exported script contain no Chinese characters. The full production-browser suite passed: complete autoplay, four actual semantic executions, contract comparisons, evidence export, failure/retry, restored explorer state, reduced motion and 390/320px layouts, with no browser errors.
+- Player/model checks and the production build passed. Reviewed refreshed English desktop/mobile screenshots. Data, model, policy logic and claim boundaries are unchanged.
+- Final commit, merge, deployment and public verification are recorded on PR #3.

diff --git a/README.md b/README.md
@@ -186,4 +186,4 @@ The `/cmapss/` demonstration now offers four separately fitted subset models, on
 
 ### Automatic C-MAPSS case-study story
 
-Open `/cmapss/?story=1` or select **自动演示 / Play case study** for a roughly three-minute walkthrough of observed degradation, DT framework responsibilities, executable ontology evidence, contract decisions and scoped research contributions. It supports pause, chapters, speed, a transcript and real semantic-check exports. See [animated story design](docs/cmapss/ANIMATED_STORY.md).
+Open `/cmapss/?story=1` or select **Play case study** for a roughly three-minute walkthrough of observed degradation, DT framework responsibilities, executable ontology evidence, contract decisions and scoped research contributions. It supports pause, chapters, speed, a transcript and real semantic-check exports. See [animated story design](docs/cmapss/ANIMATED_STORY.md).

diff --git a/docs/cmapss/ANIMATED_STORY.md b/docs/cmapss/ANIMATED_STORY.md
@@ -1,6 +1,6 @@
 # Automatic case-study walkthrough (v0.5)
 
-The existing explorer now has **自动演示 / Play case study**, with a direct entry at `/cmapss/?story=1`. It opens an approximately three-minute, nine-scene Chinese-language explanation with English technical labels. It is a browser animation with a readable transcript, not a narrated video. The original explorer remains available and its selected dataset, cycle and policy are preserved when the story closes.
+The existing explorer now has **Play case study**, with a direct entry at `/cmapss/?story=1`. It opens an approximately three-minute, nine-scene walkthrough with English explanatory text and controls. It is a browser animation with a readable transcript, not a narrated video. The original explorer remains available and its selected dataset, cycle and policy are preserved when the story closes.
 
 ## Narrative and contributions
 
